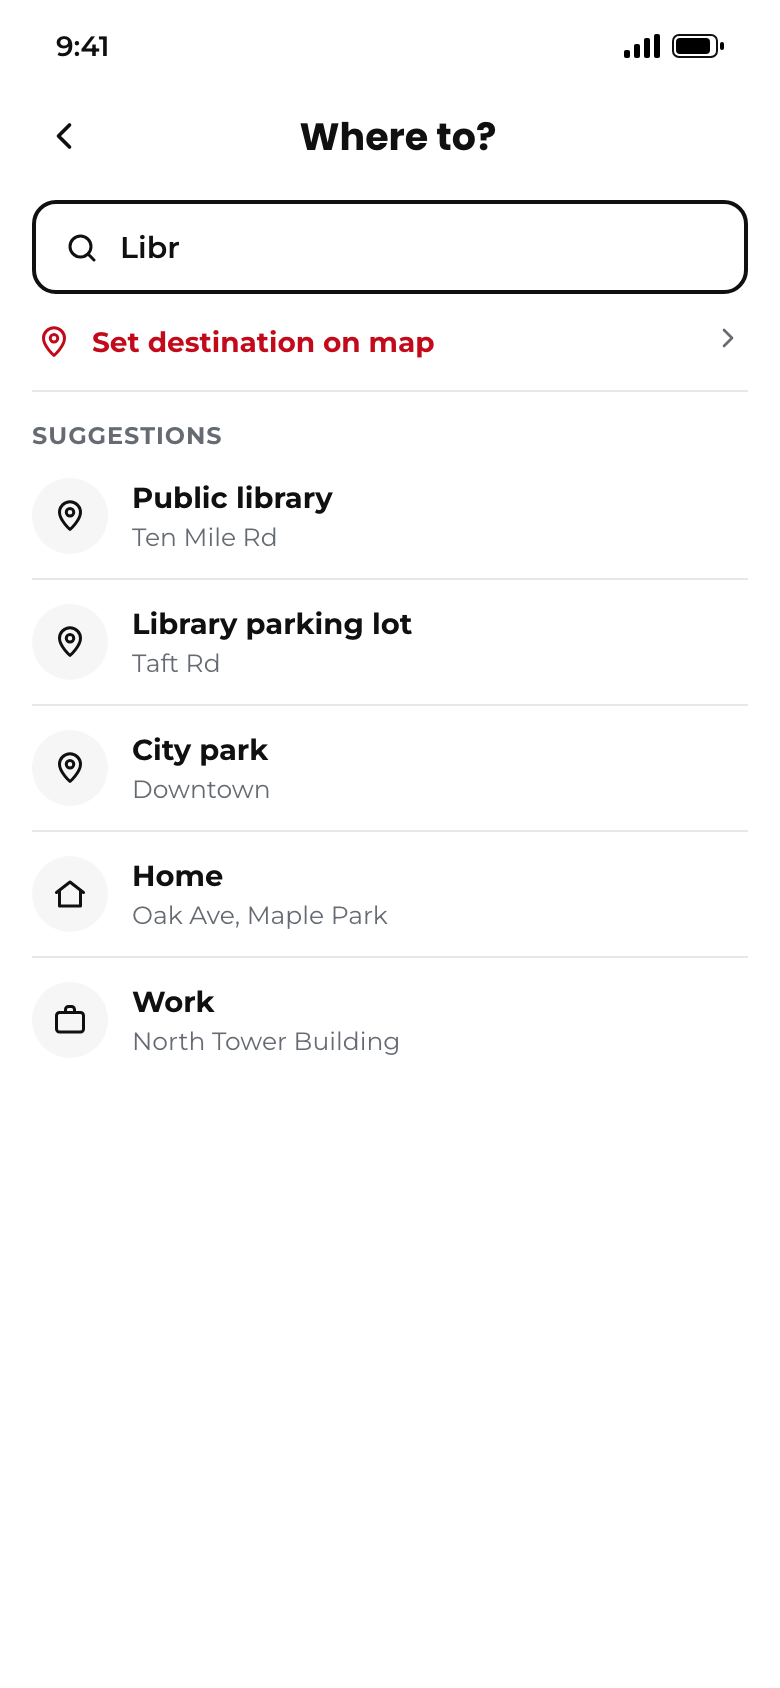
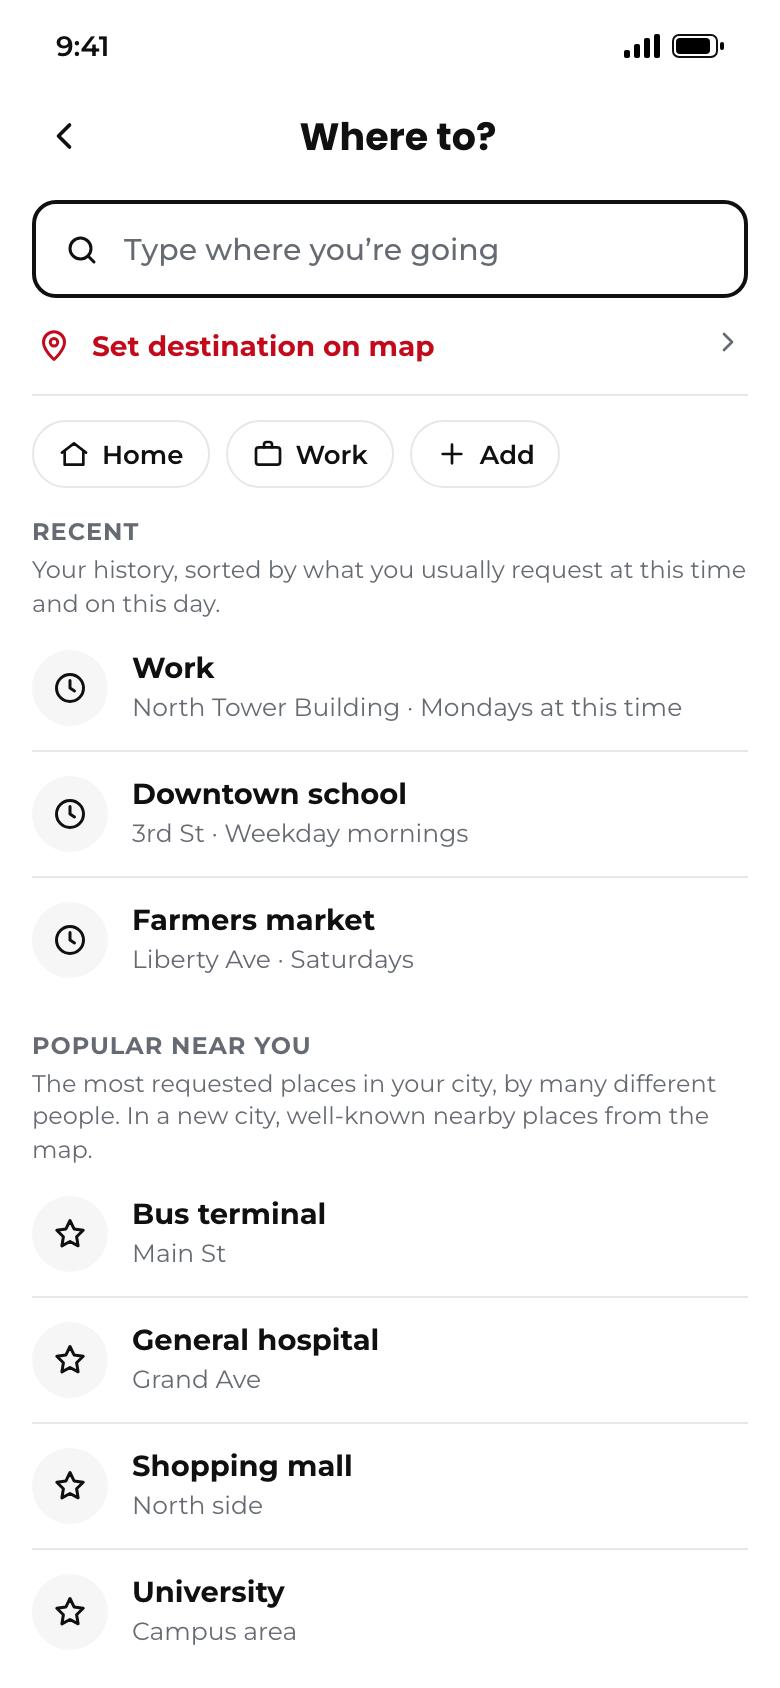
docs(diseño): «¿A dónde vas?» del borrador con casilla vacía (atajos, Recientes por hora y día, Populares de la ciudad) y Resultados del mapa por cercanía; regla escrita [skip ci] — todos los países

diff --git a/progreso/borrador-inicio/index.html b/progreso/borrador-inicio/index.html
@@ -949,6 +949,32 @@
         font-size: 12.5px;
         color: var(--gris);
       }
+      .nota-bloque {
+        margin: 2px 0 2px;
+        font-size: 12px;
+        line-height: 1.4;
+        color: var(--gris);
+      }
+      .dist {
+        font-size: 12.5px;
+        font-weight: 600;
+        color: var(--gris);
+        white-space: nowrap;
+      }
+      .entrada input {
+        border: 0;
+        outline: 0;
+        flex: 1;
+        min-width: 0;
+        font: inherit;
+        font-weight: 600;
+        background: transparent;
+        color: var(--negro);
+      }
+      .entrada input::placeholder {
+        color: var(--gris);
+        font-weight: 500;
+      }
       .sug-tit {
         font-size: 12px;
         font-weight: 700;
@@ -1405,6 +1431,9 @@
         centrar: '<circle cx="12" cy="12" r="4"/><path d="M12 2v3M12 19v3M2 12h3M19 12h3"/>',
         pin: '<path d="M12 21s-7-6.2-7-11.5a7 7 0 0 1 14 0C19 14.8 12 21 12 21z"/><circle cx="12" cy="9.5" r="2.5"/>',
         flecha: '<path d="m9 6 6 6-6 6"/>',
+        reloj: '<circle cx="12" cy="12" r="9"/><path d="M12 7v5l3 2"/>',
+        estrellaL:
+          '<path d="m12 3 2.7 5.6 6.1.9-4.4 4.3 1 6.1L12 17l-5.4 2.9 1-6.1-4.4-4.3 6.1-.9z"/>',
         baja: '<path d="m6 9 6 6 6-6"/>',
         check: '<path d="m5 12 5 5 9-10"/>',
         efectivo:
@@ -1444,7 +1473,8 @@
             inicio: 'Inicio',
             usados: 'Inicio con tus más usados',
             moto: 'Moto',
-            destino: '¿A dónde vas?',
+            destino: '¿A dónde vas? (vacía)',
+            escribiendo: '¿A dónde vas? (escribiendo)',
             carro: 'Carro',
             comida: 'Comida',
             envios: 'Envíos (Express y Flex)',
@@ -1518,6 +1548,38 @@
             ['Terminal de carga', 'Zona industrial'],
             ['Plaza Bolívar', 'Centro'],
           ],
+          escribe: 'Escribe a dónde vas',
+          recientes: 'Recientes',
+          recientesNota: 'Tu historial, ordenado por lo que sueles pedir a esta hora y este día.',
+          recientesEj: [
+            ['Trabajo', 'Edificio Torre Norte', 'Lunes a esta hora'],
+            ['Colegio del centro', 'Calle 3', 'Entre semana, por la mañana'],
+            ['Mercado municipal', 'Av. Libertad', 'Sábados'],
+          ],
+          populares: 'Populares cerca de ti',
+          popularesNota:
+            'Lo más pedido en tu ciudad por muchas personas distintas. En una ciudad nueva, lugares conocidos cercanos del mapa.',
+          popularesEj: [
+            ['Terminal de pasajeros', 'Av. Bolívar'],
+            ['Hospital central', 'Av. Principal'],
+            ['Centro comercial', 'Zona norte'],
+            ['Universidad', 'Sector universitario'],
+          ],
+          resultados: 'Resultados',
+          resultadosNota:
+            'Lugares del mapa cerca de ti, primero lo más cercano. Casa y Trabajo salen solo si coinciden con lo que escribes.',
+          lugares: [
+            ['Plaza Bolívar', 'Centro', '0,6 km'],
+            ['Terminal de pasajeros', 'Av. Bolívar', '1,2 km'],
+            ['Hospital central', 'Av. Principal', '2,1 km'],
+            ['Centro comercial', 'Zona norte', '2,9 km'],
+            ['Terminal de carga', 'Zona industrial', '3,8 km'],
+            ['Universidad', 'Sector universitario', '4,4 km'],
+            ['Terminal de autobuses interurbanos', 'Salida sur', '9,5 km'],
+          ],
+          sinResultados: 'No encontramos ese lugar. Prueba con otra palabra o fíjalo en el mapa.',
+          costo:
+            'Buscador de mapas: se cobra por búsqueda. Se usan sesiones de búsqueda, se espera unos 300 ms entre teclas y hay un tope diario en código.',
           carro: 'Carro',
           viajaCarro: 'Viaja en carro',
           carroTx: 'Cómodo y seguro para ti y tu familia',
@@ -1583,7 +1645,8 @@
             inicio: 'Home',
             usados: 'Home with your most used',
             moto: 'Moto',
-            destino: 'Where to?',
+            destino: 'Where to? (empty)',
+            escribiendo: 'Where to? (typing)',
             carro: 'Car',
             comida: 'Food',
             envios: 'Delivery (Express and Flex)',
@@ -1646,12 +1709,45 @@
           casco: 'Helmets are required. Your driver carries one for you.',
           fijarD: 'Set destination on map',
           sugerencias: 'Suggestions',
-          escrito: 'Libr',
+          escrito: 'Term',
           sug: [
             ['Public library', 'Ten Mile Rd'],
             ['Library parking lot', 'Taft Rd'],
             ['City park', 'Downtown'],
           ],
+          escribe: 'Type where you’re going',
+          recientes: 'Recent',
+          recientesNota:
+            'Your history, sorted by what you usually request at this time and on this day.',
+          recientesEj: [
+            ['Work', 'North Tower Building', 'Mondays at this time'],
+            ['Downtown school', '3rd St', 'Weekday mornings'],
+            ['Farmers market', 'Liberty Ave', 'Saturdays'],
+          ],
+          populares: 'Popular near you',
+          popularesNota:
+            'The most requested places in your city, by many different people. In a new city, well-known nearby places from the map.',
+          popularesEj: [
+            ['Bus terminal', 'Main St'],
+            ['General hospital', 'Grand Ave'],
+            ['Shopping mall', 'North side'],
+            ['University', 'Campus area'],
+          ],
+          resultados: 'Results',
+          resultadosNota:
+            'Places from the map near you, closest first. Home and Work show up only if they match what you type.',
+          lugares: [
+            ['City park', 'Downtown', '0.4 mi'],
+            ['Bus terminal', 'Main St', '0.8 mi'],
+            ['General hospital', 'Grand Ave', '1.3 mi'],
+            ['Shopping mall', 'North side', '1.8 mi'],
+            ['Terminal parking lot', 'Main St', '0.9 mi'],
+            ['University', 'Campus area', '2.7 mi'],
+            ['Airport terminal', 'Airport Rd', '14 mi'],
+          ],
+          sinResultados: 'We couldn’t find that place. Try another word or set it on the map.',
+          costo:
+            'Map search is billed per search. We use search sessions, wait about 300 ms between keystrokes and keep a daily cap in code.',
           carro: 'Car',
           viajaCarro: 'Ride by car',
           carroTx: 'Comfortable and safe for you and your family',
@@ -1726,6 +1822,7 @@
         envio: 'express',
         cat: 0,
         filtro: -1,
+        q: '',
       };
       window.__toques = 0;
 
@@ -1743,6 +1840,7 @@
         if (ORDEN.includes(h.get('p'))) E.P = h.get('p');
         if (h.get('d')) E.destino = h.get('d');
         if (h.get('e') === 'flex') E.envio = 'flex';
+        E.q = h.get('q') || '';
         if (h.get('captura') === '1') document.body.classList.add('captura');
       }
       function hash() {
@@ -1753,6 +1851,7 @@
           E.L +
           (E.destino ? '&d=' + E.destino : '') +
           (E.envio === 'flex' ? '&e=flex' : '') +
+          (E.q && E.P === 'destino' ? '&q=' + encodeURIComponent(E.q) : '') +
           (document.body.classList.contains('captura') ? '&captura=1' : '')
         );
       }
@@ -1882,10 +1981,24 @@
           E.L === 'es' ? 'Divoox · Borrador del inicio' : 'Divoox · Home screen draft';
         document.querySelectorAll('[data-t]').forEach((n) => (n.textContent = t[n.dataset.t]));
         document.getElementById('toques').innerHTML = t.toques;
-        document.getElementById('lista').innerHTML = ORDEN.map(
-          (p, i) =>
-            `<button data-lista="${p}" aria-current="${p === E.P}"><span class="n">${i + 1}</span>${t.pant[p]}</button>`,
-        ).join('');
+        const LISTA = [
+          'inicio',
+          'usados',
+          'moto',
+          'destino',
+          'escribiendo',
+          'carro',
+          'comida',
+          'envios',
+          'buscando',
+          'seguimiento',
+        ];
+        const actual = E.P === 'destino' && E.q ? 'escribiendo' : E.P;
+        document.getElementById('lista').innerHTML =
+          LISTA.map(
+            (p, i) =>
+              `<button data-lista="${p}" aria-current="${p === actual}"><span class="n">${i + 1}</span>${t.pant[p]}</button>`,
+          ).join('') + `<p class="nota-bloque" style="margin-top:8px">${t.costo}</p>`;
         selector(document.getElementById('idioma-pagina'));
 
         document.querySelector('[data-p=inicio]').innerHTML = inicio(
@@ -1914,13 +2027,17 @@
         document.querySelector('[data-p=destino]').innerHTML = `
    <div class="tope"><button class="atras" data-ir="moto" aria-label="Volver">${I(P.atras, 22)}</button><h1>${t.adonde}</h1></div>
    <div class="desliza" style="padding:4px 16px 16px">
-    <div class="entrada">${I(P.lupa, 18)}<span>${t.escrito}<span class="cursor"></span></span></div>
+    <label class="entrada">${I(P.lupa, 18)}<input id="q" autocomplete="off" placeholder="${t.escribe}" value="${E.q.replace(/"/g, '&quot;')}" aria-label="${t.adonde}"></label>
     <button class="fijar">${I(P.pin, 18, '#C20A1A')}${t.fijarD}<span class="fl">${I(P.flecha, 16, '#666B73')}</span></button>
-    <div class="sug-tit">${t.sugerencias}</div>
-    <div class="lista-sug">${t.sug.map((s) => `<button class="fila" data-dest="sug" data-ir="moto"><span class="ic">${I(P.pin, 18)}</span><span><b>${s[0]}</b><span>${s[1]}</span></span></button>`).join('')}
-     <button class="fila" data-dest="casa" data-ir="moto"><span class="ic">${I(P.casa, 18)}</span><span><b>${t.casa}</b><span>${t.casaDir}</span></span></button>
-     <button class="fila" data-dest="trabajo" data-ir="moto"><span class="ic">${I(P.maleta, 18)}</span><span><b>${t.trabajo}</b><span>${t.trabajoDir}</span></span></button></div>
+    <div id="bloques">${bloquesDestino()}</div>
    </div>`;
+        const q = document.getElementById('q');
+        q.oninput = () => {
+          E.q = q.value;
+          history.replaceState(null, '', hash());
+          document.getElementById('bloques').innerHTML = bloquesDestino();
+          conectar();
+        };
 
         document.querySelector('[data-p=carro]').innerHTML = `
    <div class="tope"><button class="atras" data-ir="inicio" aria-label="Volver">${I(P.atras, 22)}</button><h1>${t.carro}</h1></div>
@@ -2013,6 +2130,51 @@
       function cerrarVelo() {
         document.getElementById('velo').classList.remove('on');
       }
+      // C-BUSCAR-DESTINO (borrador): casilla vacía = atajos + Recientes + Populares; con texto = Resultados.
+      const norm = (x) =>
+        x
+          .normalize('NFD')
+          .replace(/[\u0300-\u036f]/g, '')
+          .toLowerCase();
+      const filaLugar = (ic, n, d, extra = '', dest = 'sug') =>
+        `<button class="fila" data-dest="${dest}" data-ir="moto"><span class="ic">${I(ic, 18)}</span><span style="flex:1;min-width:0"><b>${n}</b><span>${d}</span></span>${extra}</button>`;
+      function bloquesDestino() {
+        const t = T[E.L];
+        const q = norm(E.q.trim());
+        if (!q) {
+          return `<div class="atajos" style="margin-top:12px">
+            <button class="atajo" data-dest="casa" data-ir="moto">${I(P.casa, 16)}${t.casa}</button>
+            <button class="atajo" data-dest="trabajo" data-ir="moto">${I(P.maleta, 16)}${t.trabajo}</button>
+            <button class="atajo">${I(P.mas, 16)}${t.agregar}</button></div>
+           <div class="sug-tit">${t.recientes}</div><p class="nota-bloque">${t.recientesNota}</p>
+           <div class="lista-sug">${t.recientesEj.map((r, i) => filaLugar(P.reloj, r[0], `${r[1]} · ${r[2]}`, '', i === 0 ? 'trabajo' : 'sug')).join('')}</div>
+           <div class="sug-tit">${t.populares}</div><p class="nota-bloque">${t.popularesNota}</p>
+           <div class="lista-sug">${t.popularesEj.map((r) => filaLugar(P.estrellaL, r[0], r[1])).join('')}</div>`;
+        }
+        const propios = [
+          [t.casa, t.casaDir, 'casa', P.casa],
+          [t.trabajo, t.trabajoDir, 'trabajo', P.maleta],
+        ].filter(
+          (x) =>
+            norm(x[0] + ' ' + x[1])
+              .split(/\s+/)
+              .some((w) => w.startsWith(q)) || norm(x[0]).startsWith(q),
+        );
+        const km = (x) => parseFloat(x.replace(',', '.'));
+        const lugares = t.lugares
+          .filter((l) =>
+            norm(l[0] + ' ' + l[1])
+              .split(/\s+/)
+              .some((w) => w.startsWith(q)),
+          )
+          .sort((a, b) => km(a[2]) - km(b[2]));
+        const filas = [
+          ...propios.map((x) => filaLugar(x[3], x[0], x[1], '', x[2])),
+          ...lugares.map((l) => filaLugar(P.pin, l[0], l[1], `<span class="dist">${l[2]}</span>`)),
+        ];
+        return `<div class="sug-tit">${t.resultados}</div><p class="nota-bloque">${t.resultadosNota}</p>
+          <div class="lista-sug">${filas.length ? filas.join('') : `<p class="nota-bloque" style="padding:12px 0">${t.sinResultados}</p>`}</div>`;
+      }
       function conectar() {
         document.querySelectorAll('#telefono .pantalla.activa button').forEach((b) => {
           if (b.closest('.idioma')) return;
@@ -2042,7 +2204,8 @@
             (b.onclick = () => {
               const p = b.dataset.lista;
               if (p === 'inicio' || p === 'usados' || p === 'moto') E.destino = null;
-              ir(p);
+              E.q = p === 'escribiendo' ? T[E.L].escrito : '';
+              ir(p === 'escribiendo' ? 'destino' : p);
             }),
         );
       }

diff --git a/docs/disenos/borrador-inicio/BUSQUEDA-DESTINO.md b/docs/disenos/borrador-inicio/BUSQUEDA-DESTINO.md
@@ -1,0 +1,53 @@
+# «¿A dónde vas?»: cómo se llena la lista (regla de Richard, 17 nov 2026)
+
+Vale para el borrador y para lo que se construya después en Moto, Carro y Envíos. Todas las ciudades y
+todos los países por igual (Detroit, Cúcuta, Caracas, El Vigía): nada fijo de una sola ciudad.
+
+## 1. Casilla vacía: tres bloques, en este orden
+
+1. **Atajos**: Casa y Trabajo (y «Agregar»), arriba.
+2. **Recientes**: el historial de esa persona. Se ordena con código, sin IA, por lo que suele pedir
+   **a esa hora y ese día de la semana**. Ejemplo: un lunes a las 7 de la mañana, Trabajo sale primero.
+   Regla de orden: puntaje = viajes a ese destino en la misma franja horaria (±1 hora) y el mismo día
+   de la semana, luego los del mismo tipo de día (entre semana o fin de semana), y por último lo más
+   reciente. Se muestran como mucho cinco.
+3. **Populares cerca de ti**: según la ciudad donde está la persona en ese momento.
+   - Con datos: los destinos más pedidos en esa ciudad, con nuestros propios datos agregados.
+     **Solo lugares pedidos por varias personas distintas** (mínimo cinco clientes distintos en los
+     últimos 90 días). Nunca la dirección de una persona: se guarda el lugar redondeado (el nombre del
+     sitio del buscador de mapas o la coordenada redondeada a unos 100 metros), nunca la casa de nadie.
+   - Ciudad nueva sin datos (por ejemplo, Tucaní): lugares conocidos cercanos del buscador de mapas, por
+     tipo: terminal de pasajeros, hospital, plaza, centro comercial, universidad.
+   - La lista de populares se calcula una vez al día por ciudad y se guarda; no se calcula por cada
+     visita (regla de la nube: mirar no escribe).
+
+## 2. Casilla con texto: «Resultados»
+
+- El título es **«Resultados»** (en inglés, «Results»). Ya no hay «Sugerencias» fijas.
+- Son lugares del buscador de mapas **cercanos a la persona**, ordenados por distancia, lo más cercano
+  primero, con la distancia a la derecha (km en español, millas en inglés de EE. UU.).
+- Casa y Trabajo salen arriba **solo si coinciden** con lo escrito (por nombre o por dirección).
+- Sin resultados: una línea en palabras y la opción «Fijar destino en el mapa», que siempre está debajo
+  de la casilla.
+
+## 3. Costo del buscador de mapas
+
+El buscador de mapas se cobra por búsqueda. Por eso, en código:
+
+- **Sesiones de búsqueda**: un mismo token de sesión desde la primera letra hasta que la persona elige
+  un lugar, para que se cobre como una sola sesión.
+- **Espera de unos 300 ms entre teclas** antes de pedir resultados, y nada antes de la segunda letra.
+- **Tope diario** por proyecto y por cuenta; al pasarlo, quedan los recientes, los populares y «Fijar en
+  el mapa», y el canario de salud lo avisa. Se reutiliza la pieza que ya existe para las direcciones
+  (`useSugerenciasDireccion` en `packages/compartido/src/lugares.ts`, que pasa siempre por el servidor
+  en `/datos/lugares/*` con los topes de Google Cloud).
+- Los populares por ciudad se guardan, así que no gastan búsquedas.
+
+## En el borrador
+
+La pantalla 4 (casilla vacía) y la 5 (casilla escribiendo) del borrador muestran esto con datos de ejemplo
+neutros, y cada bloque lleva debajo de su título una nota de dónde sale. La casilla es de verdad: se puede
+escribir («trab» deja solo Trabajo; «Termi» trae las terminales, la más cercana primero).
+
+Capturas: `4-destino-es.png`, `4-destino-en.png`, `4b-destino-escribiendo-es.png` y
+`4b-destino-escribiendo-en.png`.
